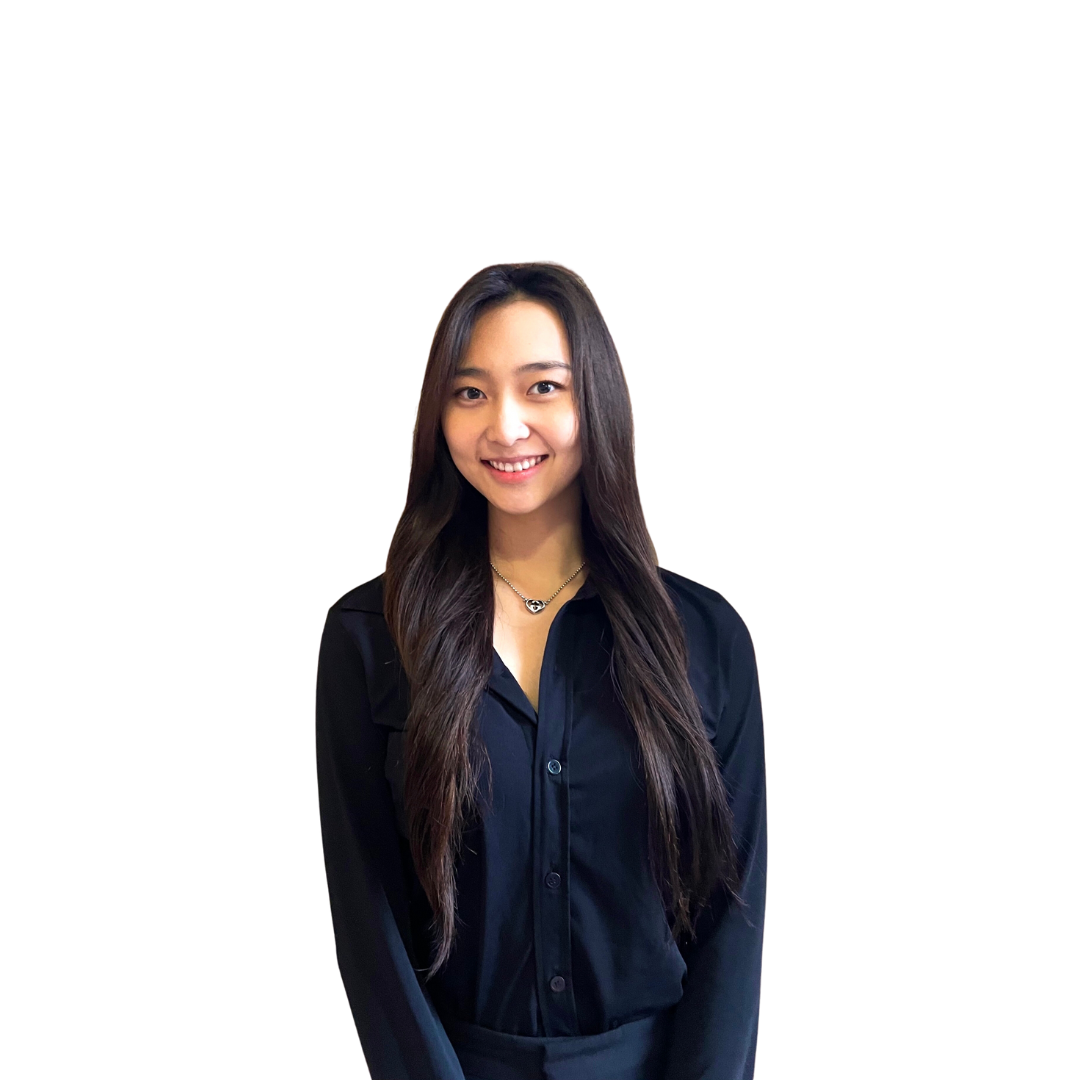
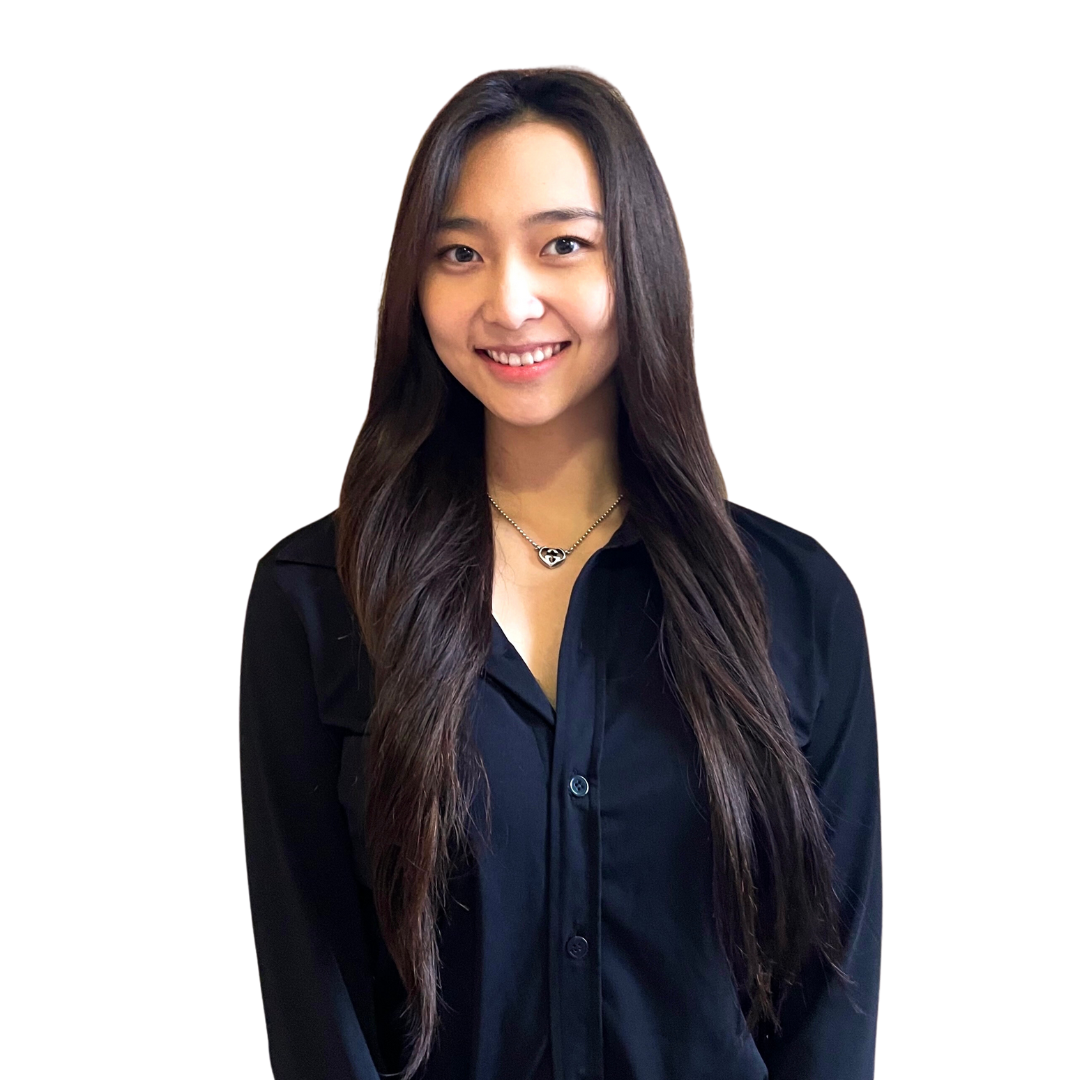
pic update

Changed region(s): [[0.2139, 0.0611, 0.825, 1.0]]

diff --git a/PEAS/about.html b/PEAS/about.html
@@ -32,7 +32,7 @@
                     <div>
                         <img src="images/stephanie.png" alt="Stephanie Chung"/>
                         <h2>Stephanie Chung</h2>
-                        <h3>Contact: stephaniechung@g.ucla.edu</h3>
+                        <h3> stephaniechung@g.ucla.edu</h3>
                         <p>Stephanie is a second-year student at UCLA double majoring Cognitive Science and Statistics and minoring Digital Humanities. She is passionate about justice in the digital realm. She is planning to pursue her career in technology as data analyst and product manager. In her free time she likes teaching yoga and playing golf. 
                         </p>
                     </div>
@@ -42,9 +42,10 @@
                         <p>Elsa specializes in backend development and has vast experience working with databases...</p>
                     </div>
                     <div>
-                        <img src="images/rebecca.jpg" alt="Rebecca Suen" />
+                        <img src="images/rebecca.png" alt="Rebecca Suen" />
                         <h2>Rebecca Suen</h2>
-                        <p>Rebecca is a front-end developer who loves creating user-friendly interfaces and stunning designs...</p>
+                        <h3>rebeccaksuen@g.ucla.edu</h3>
+                        <p>Rebecca is a second-year transfer student Global Studies major and Statistics and minor in Digital Humanities. She is interested in advocacy for marginalized communities and team building. She is planning to pursue a career in product or project management. Her hobbies include crocheting and playing guitar.</p>
                     </div>
                 </div>
             </section>
